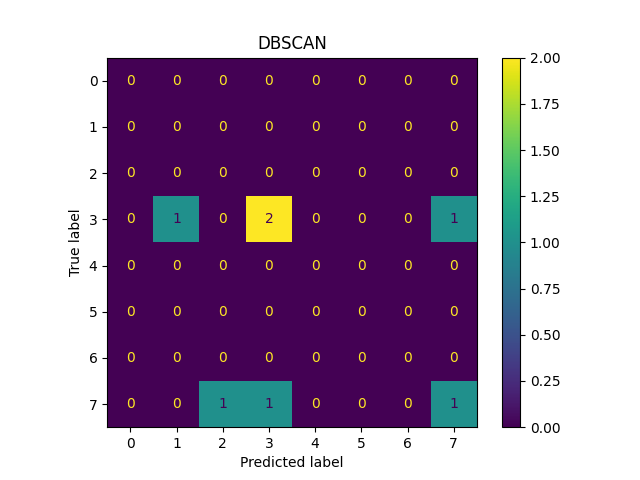
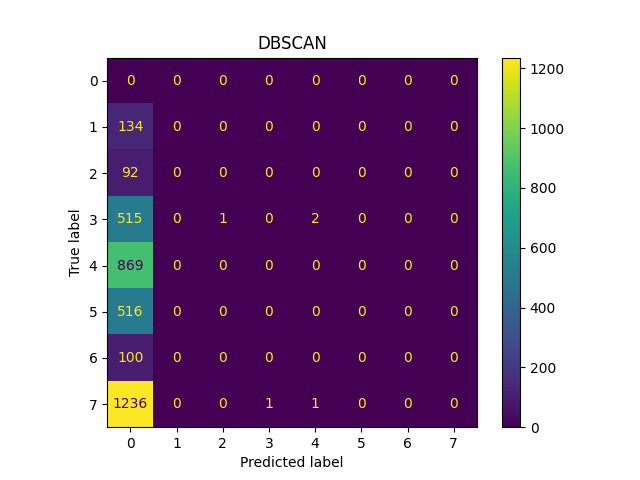
Final confusion matrices png commit

diff --git a/visualization_script.py b/visualization_script.py
@@ -9,7 +9,7 @@ classes_labels = ['AGN', 'BL Lac', 'CV', 'QSO', 'SN II', 'SN IIn', 'SN Ia', 'YSO
 methods = ['DBSCAN', 'K-Means', 'MiniBatchKMeans', 'BisectingKMeans', 'AggCluAvarage', 'AggCluWard', 'AggCluSingle']
 
 def label_funct(name):
-    i = 1
+    i = 0
     for j in classes_labels:
         i+=1
         if name == j:
@@ -24,7 +24,7 @@ df = df.loc[df['class_label'] != 0]
 print(df)
 
 for i in methods:
-    confusion_matrix = metrics.confusion_matrix(df['class_label'], df[i], labels=[1,2,3,4,5,6,7,8])
+    confusion_matrix = metrics.confusion_matrix(df['class_label'], df[i], labels=[0,1,2,3,4,5,6,7])
     cm_display = metrics.ConfusionMatrixDisplay(confusion_matrix = confusion_matrix)
     cm_display.plot()
     plt.title(i)
